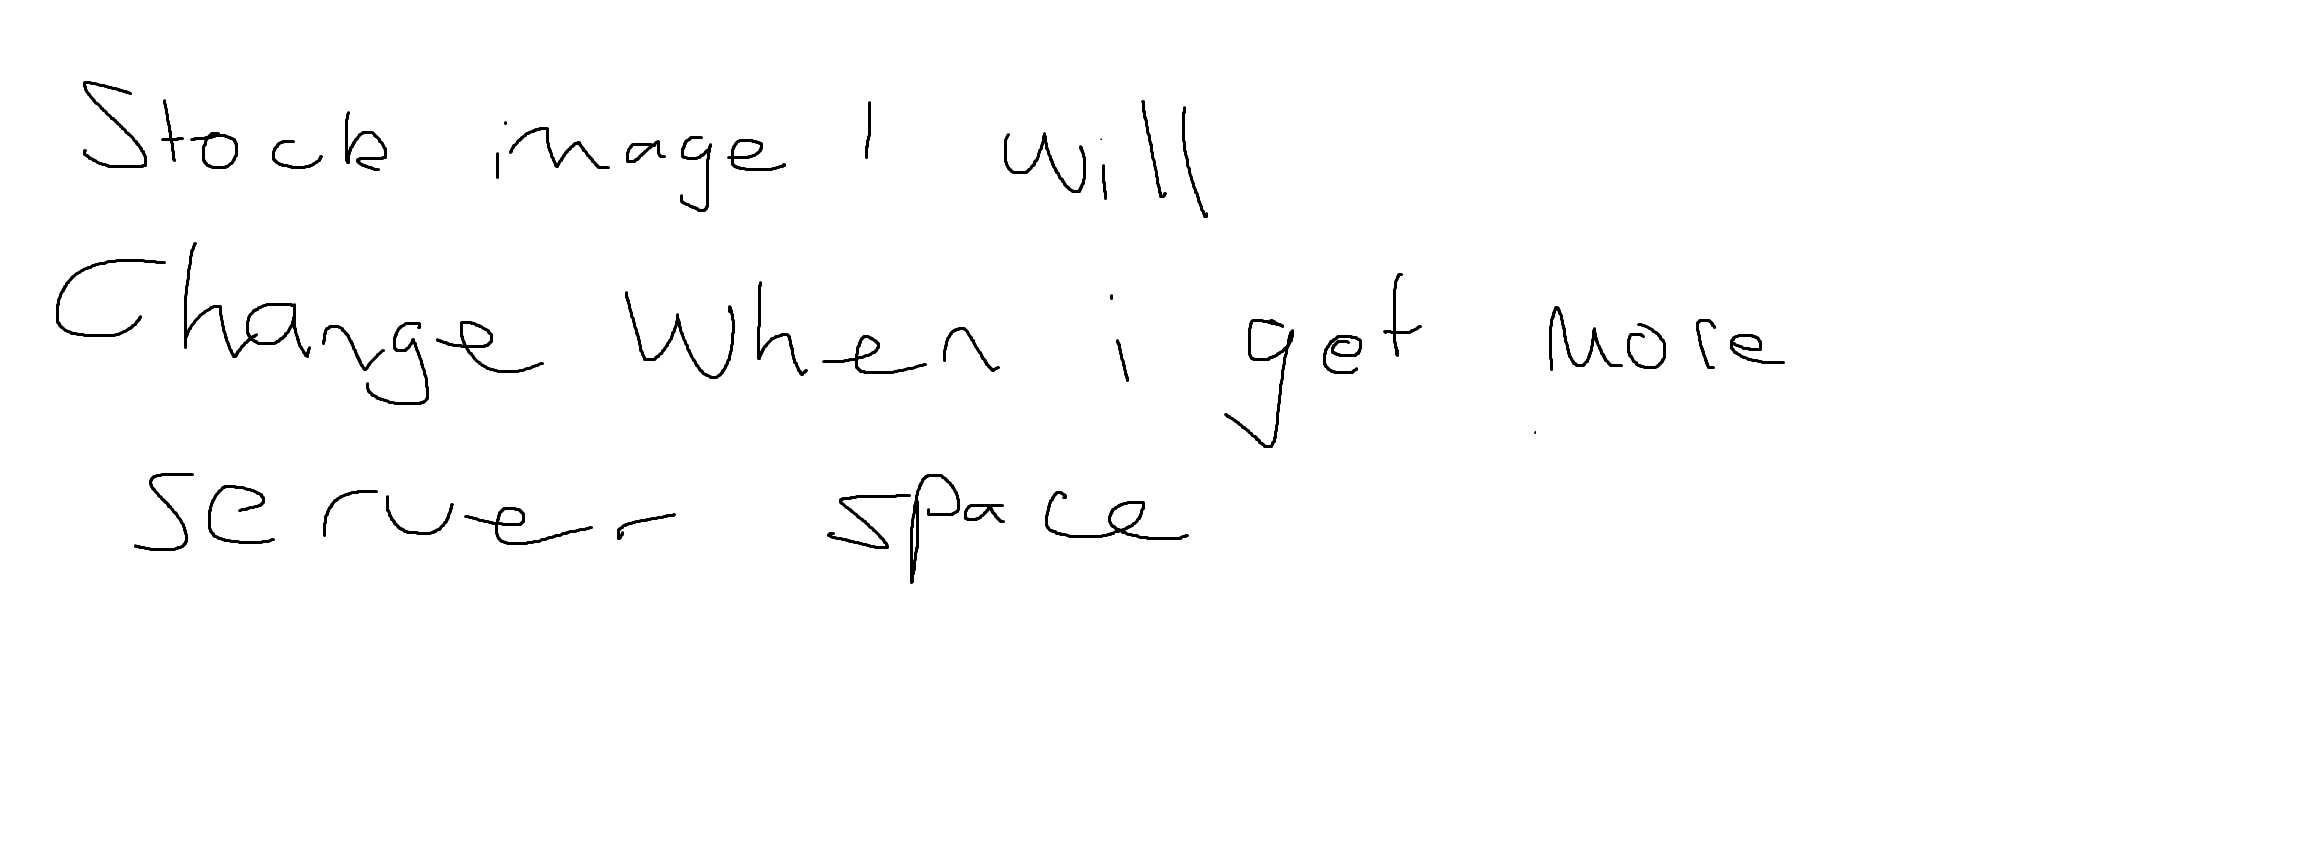
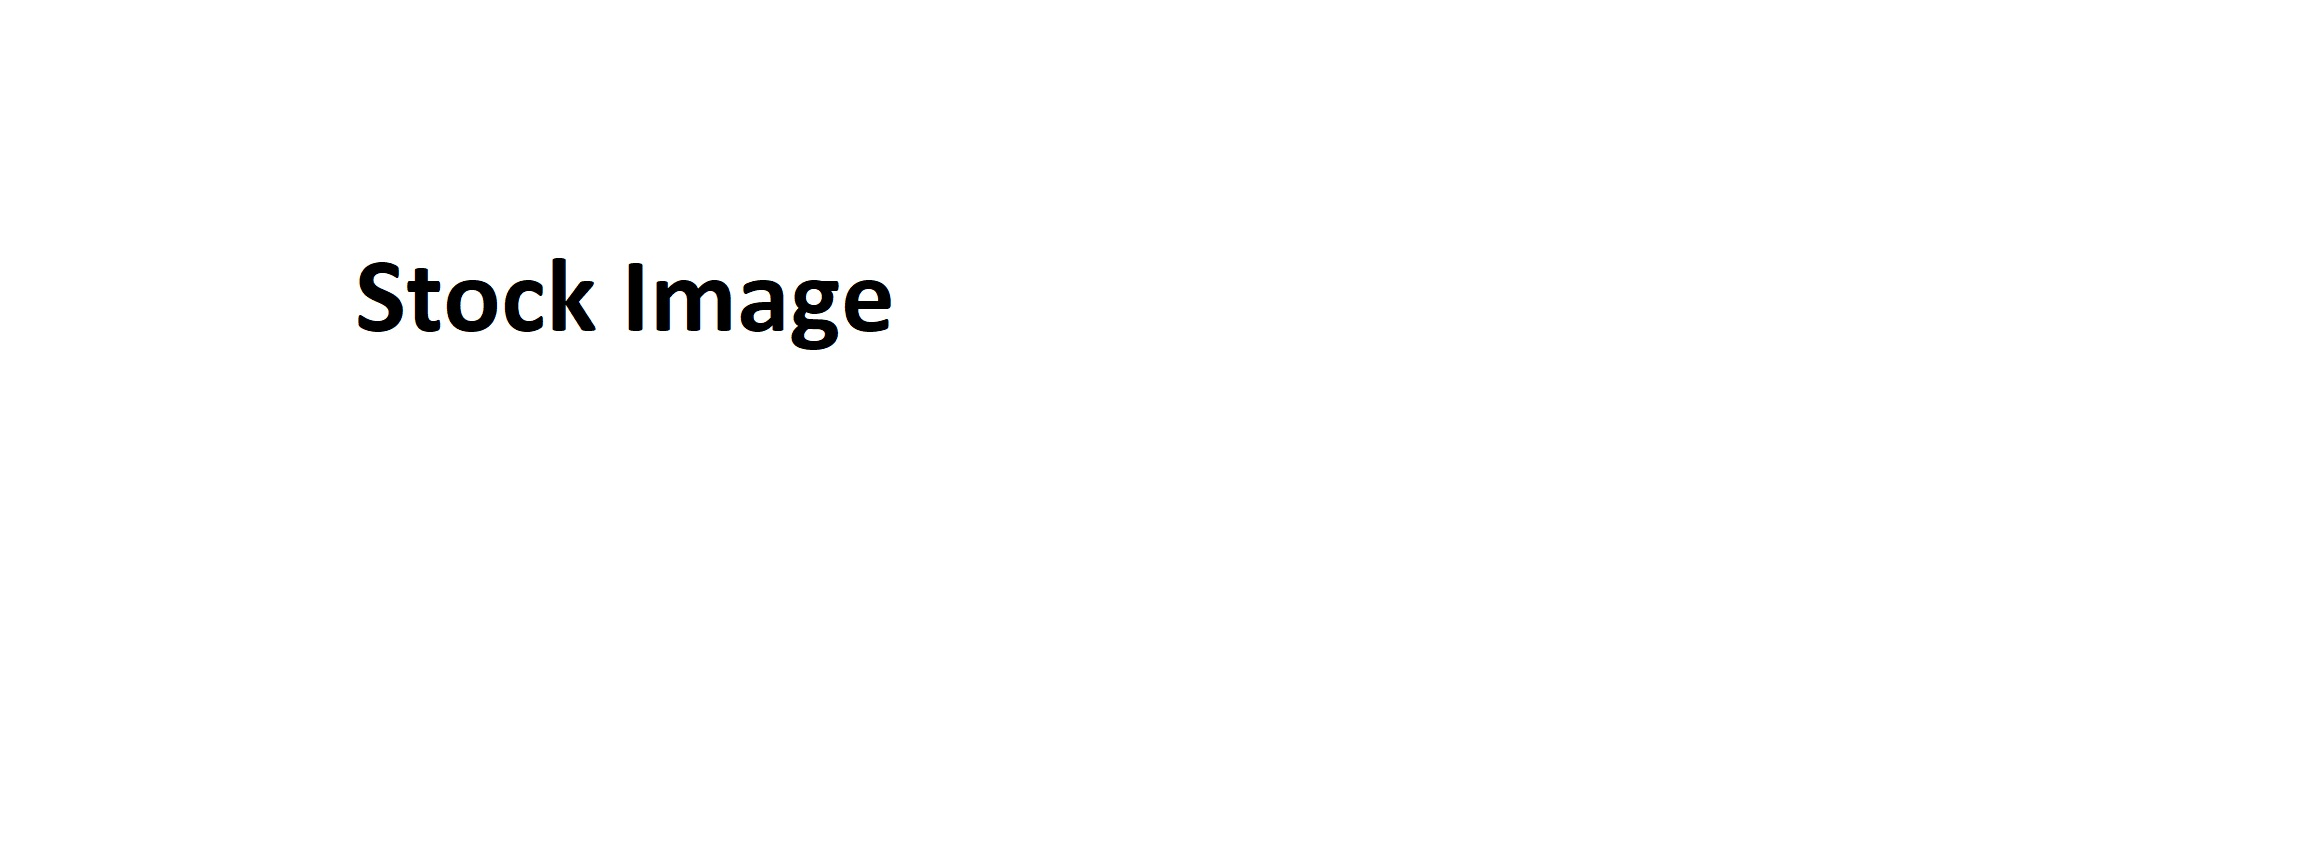
first driver page working not done at all
this was an absolute nightmarte to get working at all. just wanted to make a start and get it set up, this is not what the drivers page will look like i also made the stock image more proffessional

diff --git a/src/DriverPageTemplate.js b/src/DriverPageTemplate.js
@@ -1,0 +1,64 @@
+import React from 'react';
+
+const DriverPageTemplate = ({ driverName, imageSrc, infoList, background }) => {
+
+  const imgStyle = {
+    width: '20%',
+    height: 'auto'
+  }
+
+  const backgroundStyle = {
+    backgroundImage: `url(${background})`,
+    backgroundRepeat: 'no-repeat',
+    backgroundPosition: 'top right',
+    backgroundSize: '100% 100%', // Set background size to 100% 100%
+    height: '100%',
+    position: 'relative',
+    zIndex: '1',
+  };
+
+  const driverNameStyle = {
+    color: '#fff',
+    textAlign: 'center',
+    fontSize: '5vh',
+    fontWeight: 'bold',
+    position: 'absolute',
+    top: '5%',
+    left: '50%',
+    transform: 'translate(-50%, -50%)',
+    zIndex: '1',
+  };
+
+  const infoListStyle = {
+    color: '#fff',
+    fontWeight: 'bold',
+    position: 'absolute',
+    top: '20%',
+    right: '5%',
+    transform: 'translate(0, -50%)',
+    zIndex: '1',
+    fontSize: '1vw', 
+  };
+
+  return (
+    <>
+      <div className="driver-page" style={backgroundStyle}>
+        <h1 className="driver-name" style={driverNameStyle}>
+          {driverName}
+        </h1>
+        <img src={imageSrc} alt={driverName} className="driver-image" style={imgStyle} />
+        <div className="driver-info" style={infoListStyle}>
+          <ul>
+            {infoList.map((info, index) => (
+              <li key={index}>
+                <span>{info}</span>
+              </li>
+            ))}
+          </ul>
+        </div>
+      </div>
+    </>
+  );
+};
+
+export default DriverPageTemplate;

diff --git a/src/VerstappenPage.js b/src/VerstappenPage.js
@@ -1,0 +1,29 @@
+import React, { useState, useEffect } from 'react';
+import DriverPageTemplate from './DriverPageTemplate';
+import redBullLogo from './images/DriverPhotos/Ver.jpg';
+import background from './images/f1_logo.jpg';
+
+const VerstappenPage = () => {
+  const [infoList, setInfoList] = useState([]);
+
+  useEffect(() => {
+    fetch('/driver_info.txt')
+      .then(response => response.text())
+      .then(text => {
+        const lines = text.split('\n').slice(0, 11); //red bull lines from txt file. hardocoding works fine for this as its just not worth it to spend that much time on something so trivial
+        setInfoList(lines);
+      })
+      .catch(error => console.error(error)); //logs the error from fetch
+  }, []);
+
+  return (
+    <DriverPageTemplate
+      teamName="Verstappen"
+      imageSrc={redBullLogo}
+      infoList={infoList}
+      background = {background}
+    />
+  );
+};
+
+export default VerstappenPage;

diff --git a/src/App.js b/src/App.js
@@ -20,6 +20,8 @@ import McLarenPage from './McLarenPage';
 import AlfaPage from './AlfaPage';
 import AlphaPage from './AlphaPage';
 
+import VerstappenPage from './VerstappenPage';
+
 import './homebutton.css'
 import './appStyle.css'
 
@@ -43,6 +45,8 @@ const App = () => {
         <Route path="/teams/alpha-tauri" element={<AlphaPage />} />
         <Route path="/teams/ferrari" element={<FerrariPage />} />
         <Route path="/teams/mclaren" element={<McLarenPage />} />
+
+        <Route path="/drivers/verstappen" element={<VerstappenPage />} />
         
       </Routes>
       <div className="buttons-container">

diff --git a/src/DriversPage.js b/src/DriversPage.js
@@ -34,7 +34,7 @@ const DriversPage = () => {
     { src: gas, alt: "gasly", path: "/drivers/gasly" },
     { src: alb, alt: "albon", path: "/drivers/albon" },
     { src: bot, alt: "bottas", path: "/drivers/bottas" },
-    { src: gua, alt: "guanyou", path: "/drivers/guanyou" },
+    { src: gua, alt: "guanyou", path: "/drivers/guanyu" },
     { src: mag, alt: "magnussen", path: "/drivers/magnussen" },
     { src: nor, alt: "norris", path: "/drivers/norris" },
   ];
